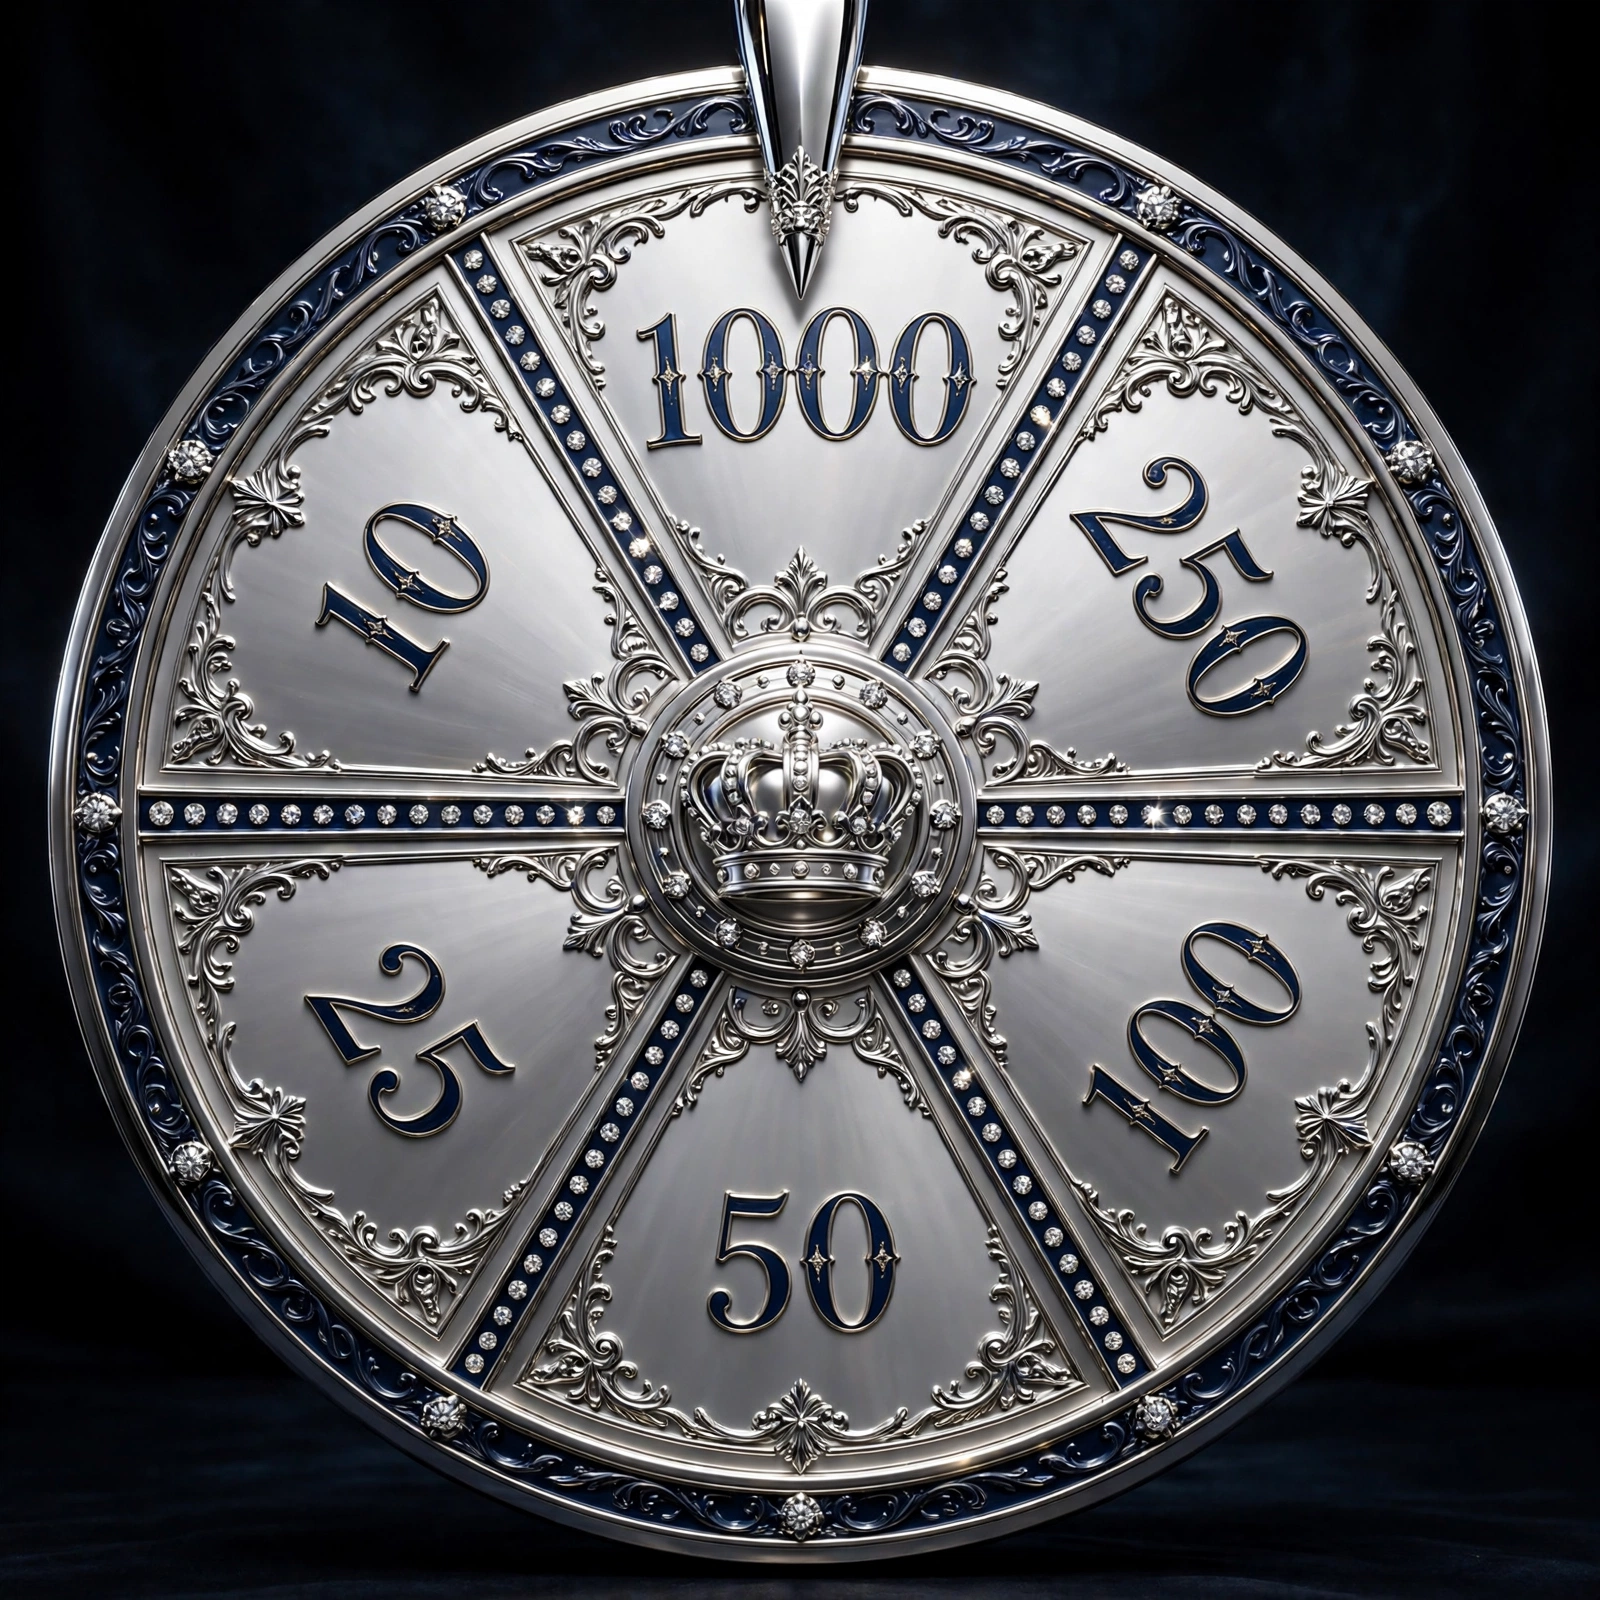
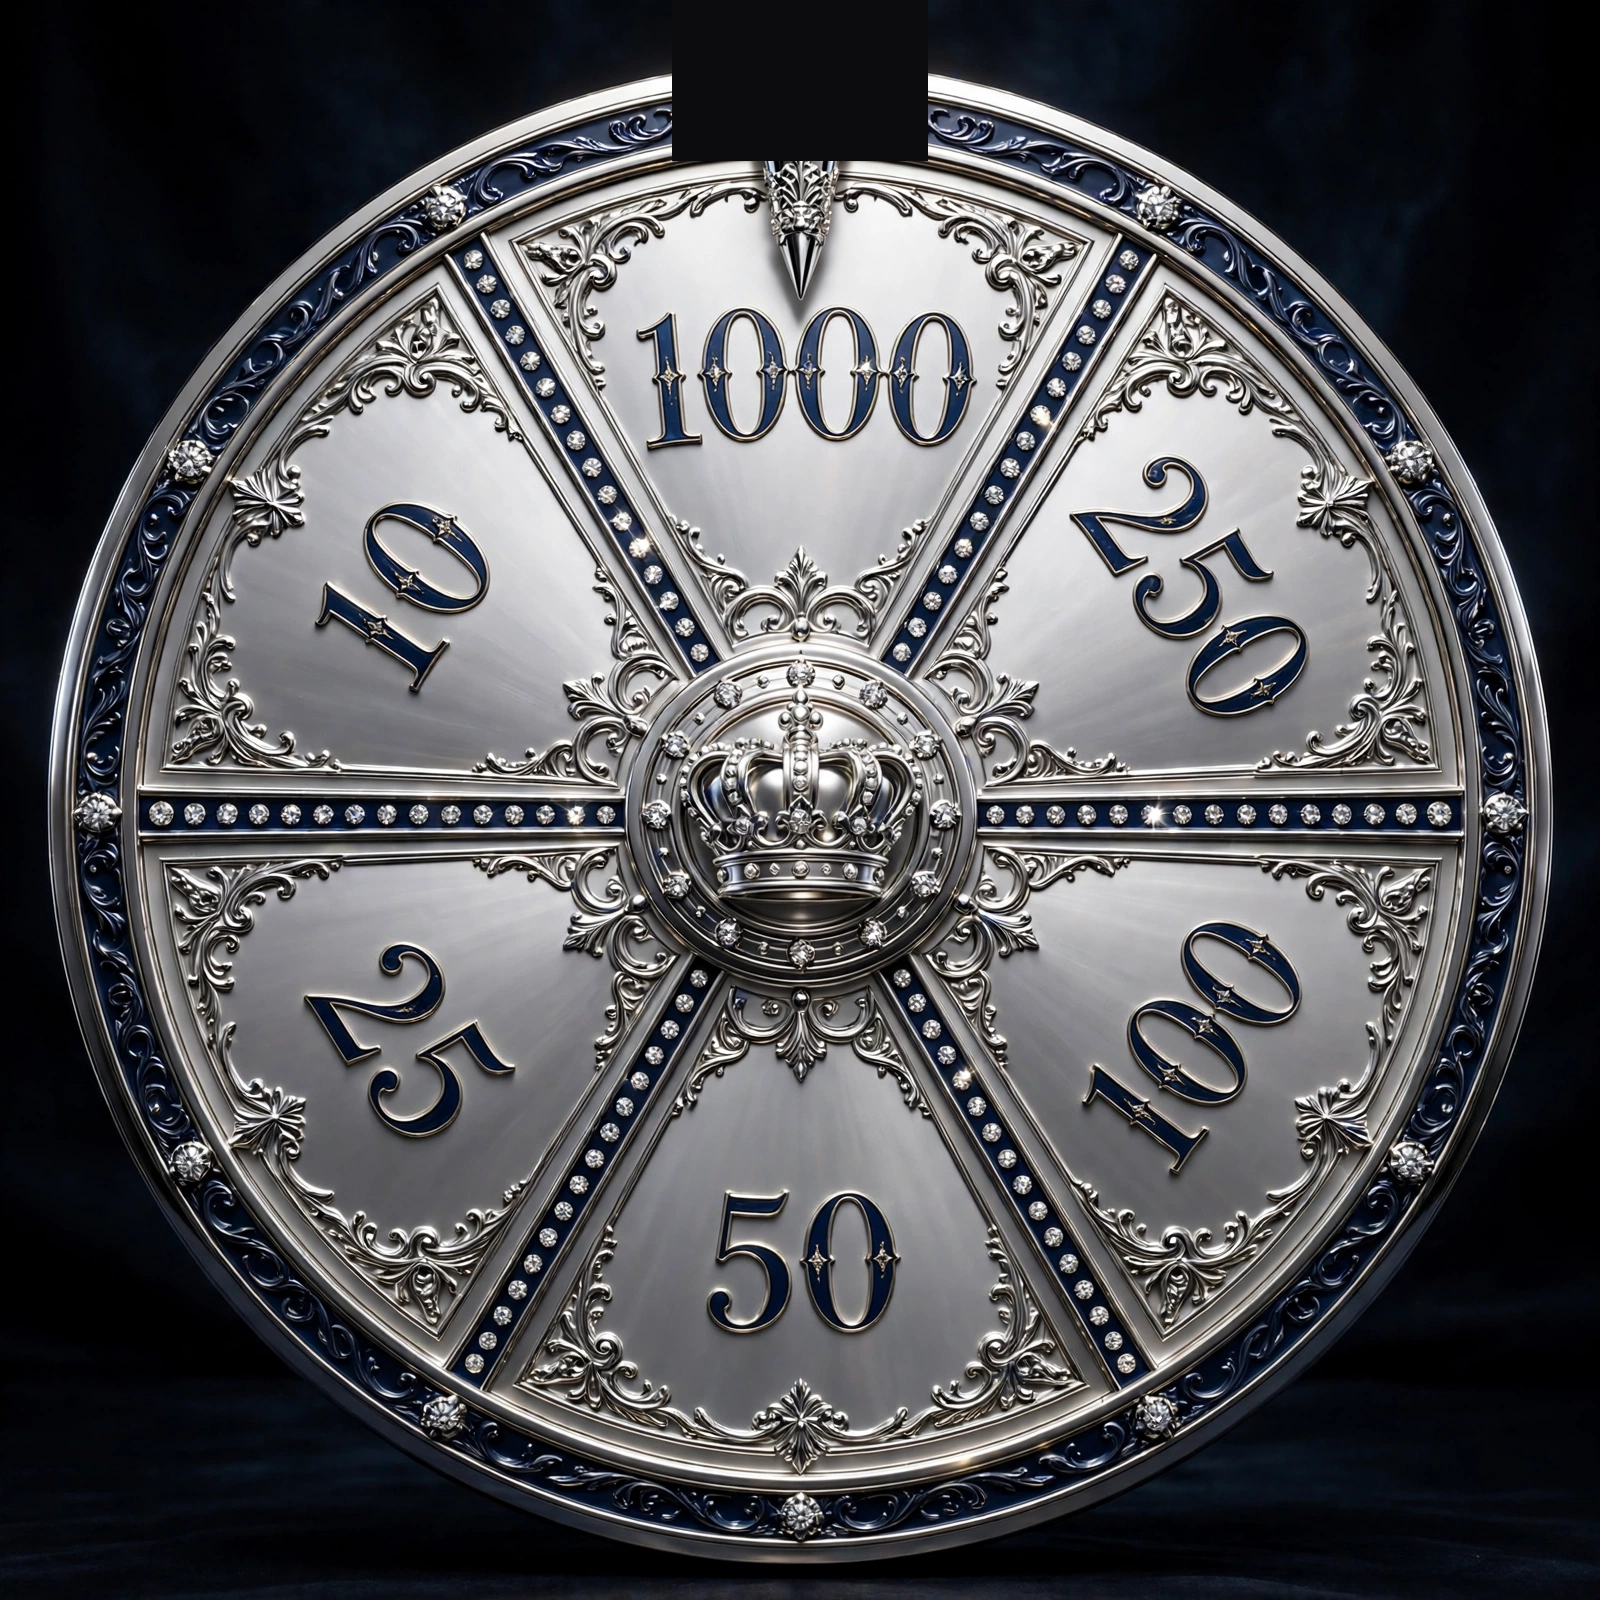
Fix wheel pointer to stay fixed at top

Changed region(s): [[0.4062, 0.0, 0.5938, 0.125]]

diff --git a/services/prize_wheel.py b/services/prize_wheel.py
@@ -27,23 +27,34 @@ def _closest_segment(segments: list[int], amount: int) -> int:
     return min(range(len(segments)), key=lambda i: abs(segments[i] - amount))
 
 
-def _spin_wheel(image_name: str, segments: list[int], win_amount: int,
+def _draw_pointer(img: Image.Image, color: tuple, accent: tuple) -> None:
+    """Draw a fixed elegant pointer at the top center. Does not rotate."""
+    d = ImageDraw.Draw(img)
+    w = img.width
+    cx = w // 2
+    pw, ph = 28, 44
+    d.polygon([(cx - pw//2 - 3, 4), (cx + pw//2 + 3, 4), (cx, ph + 6)], fill=accent)
+    d.polygon([(cx - pw//2, 6), (cx + pw//2, 6), (cx, ph + 2)], fill=color)
+    d.line([(cx, 8), (cx, ph)], fill=(255, 255, 255), width=2)
+
+
+def _spin_wheel(image_name: str, segments: list, win_amount: int,
+                pointer_color: tuple, pointer_accent: tuple,
                 frames: int = 26) -> io.BytesIO:
     """Spin the wheel, landing the winning segment at the top pointer.
-    Stamps the exact winning amount in gold at the center hub."""
+    The pointer stays fixed at the top. Stamps the exact winning amount
+    in gold at the center hub."""
     wheel = Image.open(os.path.join(_ASSETS, image_name)).convert("RGB")
     W = wheel.width
     seg_deg = 360.0 / len(segments)
 
-    # Winner segment index -> angle clockwise from top.
     win_idx = _closest_segment(segments, win_amount)
     win_angle = win_idx * seg_deg
     jitter = random.uniform(-seg_deg * 0.2, seg_deg * 0.2)
-    # PIL rotate() is counter-clockwise positive.
     final_rot = win_angle + jitter
     total_deg = 4 * 360 + final_rot
 
-    out_frames: list[Image.Image] = []
+    out_frames = []
     for f in range(frames):
         t = (f + 1) / frames
         eased = 1 - (1 - t) ** 3
@@ -51,6 +62,7 @@ def _spin_wheel(image_name: str, segments: list[int], win_amount: int,
         rotated = wheel.rotate(angle, resample=Image.BICUBIC,
                                center=(W / 2, W / 2))
         small = rotated.resize((SIZE, SIZE), Image.LANCZOS)
+        _draw_pointer(small, pointer_color, pointer_accent)
         out_frames.append(small)
 
     # Final frame: stamp the exact amount in the hub.
@@ -82,10 +94,14 @@ def _spin_wheel(image_name: str, segments: list[int], win_amount: int,
 
 
 def spin_daily_gif(win_amount: int) -> io.BytesIO:
-    """Spin the daily wheel, landing on the winning amount."""
-    return _spin_wheel("wheel_daily.png", DAILY_SEGMENTS, win_amount)
+    """Spin the daily (silver) wheel, landing on the winning amount."""
+    return _spin_wheel("wheel_daily.png", DAILY_SEGMENTS, win_amount,
+                       pointer_color=(200, 210, 220),
+                       pointer_accent=(100, 110, 120))
 
 
 def spin_vip_gif(win_amount: int) -> io.BytesIO:
-    """Spin the prestigious VIP wheel, landing on the winning amount."""
-    return _spin_wheel("wheel_vip.png", VIP_SEGMENTS, win_amount)
+    """Spin the prestigious VIP (gold) wheel, landing on the winning amount."""
+    return _spin_wheel("wheel_vip.png", VIP_SEGMENTS, win_amount,
+                       pointer_color=(255, 215, 0),
+                       pointer_accent=(150, 100, 0))
